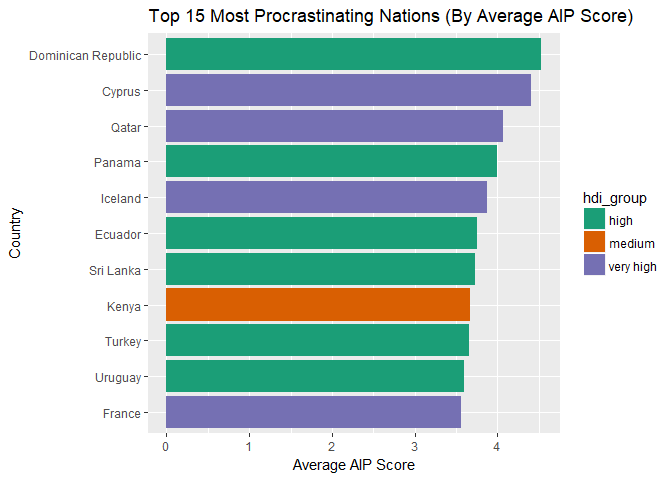
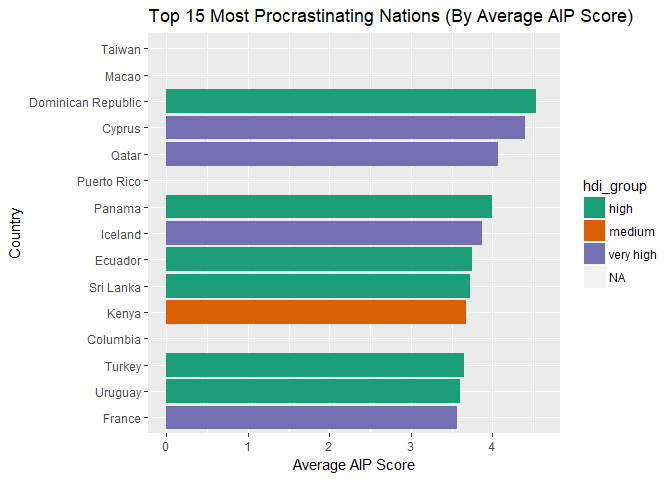
Added 6c code to q5, added new data files to Codebook

diff --git a/write-up.html b/write-up.html
@@ -1048,7 +1048,7 @@ ggplot(top15_aip_hdi,aes(x=CntryOfRes, y=CntryMeanAIP,fill=hdi_group))+
   xlab(&quot;Country&quot;)+ylab(&quot;Average AIP Score&quot;)+
   scale_fill_brewer(palette=&quot;Dark2&quot;)+
   coord_flip()</code></pre>
[2 lines of base64/hex data omitted]
 <p>14 of the top 15 nations with the highest Adult Inventory of Procrastination scale scores have either a <em>very high</em> or <em>high</em> HDI rating. Kenya, a <em>medium</em> HDI nation, is the only exception.</p>
 </div>
 <div id="based-on-general-procrastination-scale" class="section level5">
@@ -1060,12 +1060,12 @@ ggplot(top15_aip_hdi,aes(x=CntryOfRes, y=CntryMeanAIP,fill=hdi_group))+
   xlab(&quot;Country&quot;)+ylab(&quot;Average GP Score&quot;)+
   scale_fill_brewer(palette=&quot;Accent&quot;)+
   coord_flip()</code></pre>
[2 lines of base64/hex data omitted]
 <p>14 of the top 15 nations with the highest General Procrastination scale scores have either a <em>very high</em> or <em>high</em> HDI rating. Myanmar, a <em>medium</em> HDI nation, is the only exception.</p>
 </div>
 <div id="examining-highest-scoring-nations-across-adult-inventory-of-procrastination-and-general-procrastination-scales" class="section level5">
 <h5>Examining Highest Scoring Nations Across Adult Inventory of Procrastination and General Procrastination scales</h5>
-<p>The table below displays the nations, their mean scores, and their <em>hdi_group</em>.</p>
+<p>The table below displays the nations, their mean scores, their HDI score, and their <em>hdi_group</em>.</p>
 <pre class="r"><code>knitr::kable(top_procrastinators,&quot;html&quot;,row.names=FALSE) %&gt;%
   kableExtra::kable_styling(bootstrap_options = c(&quot;striped&quot;,&quot;condensed&quot;), 
                             full_width=FALSE)</code></pre>
@@ -1080,6 +1080,9 @@ CntryMeanAIP
 </th>
 <th style="text-align:right;">
 CntryMeanGP
+</th>
+<th style="text-align:right;">
+HDI
 </th>
 <th style="text-align:left;">
 hdi_group
@@ -1097,6 +1100,9 @@ Ecuador
 <td style="text-align:right;">
 3.716667
 </td>
+<td style="text-align:right;">
+0.739
+</td>
 <td style="text-align:left;">
 high
 </td>
@@ -1110,6 +1116,9 @@ France
 </td>
 <td style="text-align:right;">
 3.692308
+</td>
+<td style="text-align:right;">
+0.897
 </td>
 <td style="text-align:left;">
 very high
@@ -1125,6 +1134,9 @@ Iceland
 <td style="text-align:right;">
 3.650000
 </td>
+<td style="text-align:right;">
+0.921
+</td>
 <td style="text-align:left;">
 very high
 </td>
@@ -1139,8 +1151,28 @@ Panama
 <td style="text-align:right;">
 3.950000
 </td>
+<td style="text-align:right;">
+0.788
+</td>
 <td style="text-align:left;">
 high
+</td>
+</tr>
+<tr>
+<td style="text-align:left;">
+Puerto Rico
+</td>
+<td style="text-align:right;">
+4.000000
+</td>
+<td style="text-align:right;">
+4.283333
+</td>
+<td style="text-align:right;">
+NA
+</td>
+<td style="text-align:left;">
+NA
 </td>
 </tr>
 <tr>
@@ -1152,6 +1184,9 @@ Qatar
 </td>
 <td style="text-align:right;">
 4.200000
+</td>
+<td style="text-align:right;">
+0.856
 </td>
 <td style="text-align:left;">
 very high
@@ -1167,8 +1202,28 @@ Sri Lanka
 <td style="text-align:right;">
 3.850000
 </td>
+<td style="text-align:right;">
+0.766
+</td>
 <td style="text-align:left;">
 high
+</td>
+</tr>
+<tr>
+<td style="text-align:left;">
+Taiwan
+</td>
+<td style="text-align:right;">
+4.600000
+</td>
+<td style="text-align:right;">
+4.800000
+</td>
+<td style="text-align:right;">
+NA
+</td>
+<td style="text-align:left;">
+NA
 </td>
 </tr>
 <tr>
@@ -1180,6 +1235,9 @@ Turkey
 </td>
 <td style="text-align:right;">
 3.755556
+</td>
+<td style="text-align:right;">
+0.767
 </td>
 <td style="text-align:left;">
 high
@@ -1194,6 +1252,9 @@ Uruguay
 </td>
 <td style="text-align:right;">
 3.666667
+</td>
+<td style="text-align:right;">
+0.795
 </td>
 <td style="text-align:left;">
 high

diff --git a/data/Codebook.html b/data/Codebook.html
@@ -37,7 +37,7 @@ if (window.hljs) {
   hljs.configure({languages: []});
   hljs.initHighlightingOnLoad();
   if (document.readyState && document.readyState === "complete") {
-    window.setTimeout(function() { hljs.initHighlightingOnLoad(); }, 0);
+    window.setTimeout(function() { hljs.initHighlighting(); }, 0);
   }
 }
 </script>
@@ -238,6 +238,8 @@ div.tocify {
 <li>participants_by_country.csv - a data frame containing the counts of participants per country</li>
 <li>Procrastination.csv - the raw procrastination data obtained from Qualtrics</li>
 <li>TidyProcrastination.csv - a tidied data frame of the procrastination data</li>
+<li>top15_aip_hdi.csv - a data frame containing HDI data and mean Adult Inventory of Procrastination scores for the 15 highest scoring nations</li>
+<li>top15_gp_hdi.csv - a data frame containing HDI data and mean General Procrastination scale scores for the 15 highest scoring nations</li>
 </ul>
 </div>
 <div id="scripts" class="section level4">
@@ -793,6 +795,38 @@ Extremely dissatisfied
 <ul>
 <li>SelfLabeled (numeric): A binary variable for whether or not the participant considers themselves to be a procrastinator</li>
 <li>OthersLabel (numeric): A binary variable for whether or not the participants thinks others consider themselves to be a procrastinator</li>
+</ul>
+</div>
+</div>
+<div id="top15_aip_hdi.csv" class="section level2">
+<h2><strong>top15_aip_hdi.csv</strong></h2>
+<ul>
+<li>Type: Comma-separated value file</li>
+<li>Dimensions: 15 observations X 4 variables</li>
+</ul>
+<div id="variable-information-3" class="section level3">
+<h3>Variable information</h3>
+<ul>
+<li>CntryOfRes (character): The country name. This variable was named to match <em>CntryOfRes</em> in the TidyProcrastination.csv file for merging</li>
+<li>CntryMeanAIP (numeric): The mean Adult Inventory of Procrastination score for all participants in the given country</li>
+<li>HDI (numeric): HDI (numeric): The Human Development Index score (during the creation of this report the values are estimated in 2016 for the year 2015)</li>
+<li>hdi_group (character) : This variable uses standardized ranges to categorize a country’s HDI in to groups of low, middle, high, or very-high. See the <code>data/hdi-wiki-scrape.R</code> file for the range of HDI values each group represents.</li>
+</ul>
+</div>
+</div>
+<div id="top15_gp_hdi.csv" class="section level2">
+<h2><strong>top15_gp_hdi.csv</strong></h2>
+<ul>
+<li>Type: Comma-separated value file</li>
+<li>Dimensions: 16 observations X 4 variables (two countris had a tied mean GP score)</li>
+</ul>
+<div id="variable-information-4" class="section level3">
+<h3>Variable information</h3>
+<ul>
+<li>CntryOfRes (character): The country name. This variable was named to match <em>CntryOfRes</em> in the TidyProcrastination.csv file for merging</li>
+<li>CntryMeanGP (numeric): The mean General Procrastination scale score for all participants in the given country</li>
+<li>HDI (numeric): HDI (numeric): The Human Development Index score (during the creation of this report the values are estimated in 2016 for the year 2015)</li>
+<li>hdi_group (character) : This variable uses standardized ranges to categorize a country’s HDI in to groups of low, middle, high, or very-high. See the <code>data/hdi-wiki-scrape.R</code> file for the range of HDI values each group represents.</li>
 </ul>
 </div>
 </div>

diff --git a/write-up.md b/write-up.md
@@ -535,7 +535,7 @@ ggplot(top15_gp_hdi,aes(x=CntryOfRes, y=CntryMeanGP,fill=hdi_group))+
 
 ##### Examining Highest Scoring Nations Across Adult Inventory of Procrastination and General Procrastination scales
 
-The table below displays the nations, their mean scores, and their *hdi_group*.
+The table below displays the nations, their mean scores, their HDI score, and their *hdi_group*.
 
 ```r
 knitr::kable(top_procrastinators,"html",row.names=FALSE) %>%
@@ -548,6 +548,7 @@ knitr::kable(top_procrastinators,"html",row.names=FALSE) %>%
 <th style="text-align:left;"> CntryOfRes </th>
    <th style="text-align:right;"> CntryMeanAIP </th>
    <th style="text-align:right;"> CntryMeanGP </th>
+   <th style="text-align:right;"> HDI </th>
    <th style="text-align:left;"> hdi_group </th>
   </tr></thead>
 <tbody>
@@ -555,48 +556,70 @@ knitr::kable(top_procrastinators,"html",row.names=FALSE) %>%
 <td style="text-align:left;"> Ecuador </td>
    <td style="text-align:right;"> 3.753333 </td>
    <td style="text-align:right;"> 3.716667 </td>
+   <td style="text-align:right;"> 0.739 </td>
    <td style="text-align:left;"> high </td>
   </tr>
 <tr>
 <td style="text-align:left;"> France </td>
    <td style="text-align:right;"> 3.563846 </td>
    <td style="text-align:right;"> 3.692308 </td>
+   <td style="text-align:right;"> 0.897 </td>
    <td style="text-align:left;"> very high </td>
   </tr>
 <tr>
 <td style="text-align:left;"> Iceland </td>
    <td style="text-align:right;"> 3.870000 </td>
    <td style="text-align:right;"> 3.650000 </td>
+   <td style="text-align:right;"> 0.921 </td>
    <td style="text-align:left;"> very high </td>
   </tr>
 <tr>
 <td style="text-align:left;"> Panama </td>
    <td style="text-align:right;"> 4.000000 </td>
    <td style="text-align:right;"> 3.950000 </td>
+   <td style="text-align:right;"> 0.788 </td>
    <td style="text-align:left;"> high </td>
+  </tr>
+<tr>
+<td style="text-align:left;"> Puerto Rico </td>
+   <td style="text-align:right;"> 4.000000 </td>
+   <td style="text-align:right;"> 4.283333 </td>
+   <td style="text-align:right;"> NA </td>
+   <td style="text-align:left;"> NA </td>
   </tr>
 <tr>
 <td style="text-align:left;"> Qatar </td>
    <td style="text-align:right;"> 4.070000 </td>
    <td style="text-align:right;"> 4.200000 </td>
+   <td style="text-align:right;"> 0.856 </td>
    <td style="text-align:left;"> very high </td>
   </tr>
 <tr>
 <td style="text-align:left;"> Sri Lanka </td>
    <td style="text-align:right;"> 3.730000 </td>
    <td style="text-align:right;"> 3.850000 </td>
+   <td style="text-align:right;"> 0.766 </td>
    <td style="text-align:left;"> high </td>
+  </tr>
+<tr>
+<td style="text-align:left;"> Taiwan </td>
+   <td style="text-align:right;"> 4.600000 </td>
+   <td style="text-align:right;"> 4.800000 </td>
+   <td style="text-align:right;"> NA </td>
+   <td style="text-align:left;"> NA </td>
   </tr>
 <tr>
 <td style="text-align:left;"> Turkey </td>
    <td style="text-align:right;"> 3.654444 </td>
    <td style="text-align:right;"> 3.755556 </td>
+   <td style="text-align:right;"> 0.767 </td>
    <td style="text-align:left;"> high </td>
   </tr>
 <tr>
 <td style="text-align:left;"> Uruguay </td>
    <td style="text-align:right;"> 3.600000 </td>
    <td style="text-align:right;"> 3.666667 </td>
+   <td style="text-align:right;"> 0.795 </td>
    <td style="text-align:left;"> high </td>
   </tr>
 </tbody>

diff --git a/data/Codebook.md b/data/Codebook.md
@@ -25,6 +25,8 @@ This data folder contains the following:
 * participants_by_country.csv - a data frame containing the counts of participants per country
 * Procrastination.csv - the raw procrastination data obtained from Qualtrics
 * TidyProcrastination.csv - a tidied data frame of the procrastination data
+* top15_aip_hdi.csv - a data frame containing HDI data and mean Adult Inventory of Procrastination scores for the 15 highest scoring nations
+* top15_gp_hdi.csv - a data frame containing HDI data and mean General Procrastination scale scores for the 15 highest scoring nations 
 
 #### Scripts
 
@@ -487,6 +489,30 @@ SWLS1 through SWLS5 (numeric): The Satisfaction with Life Scale (Diener et al., 
 
 * SelfLabeled (numeric): A binary variable for whether or not the participant considers themselves to be a procrastinator
 * OthersLabel (numeric): A binary variable for whether or not the participants thinks others consider themselves to be a procrastinator
+
+## **top15_aip_hdi.csv**
+
+* Type: Comma-separated value file
+* Dimensions: 15 observations X 4 variables
+
+### Variable information
+
+* CntryOfRes (character): The country name. This variable was named to match *CntryOfRes* in the TidyProcrastination.csv file for merging
+* CntryMeanAIP (numeric): The mean Adult Inventory of Procrastination score for all participants in the given country
+* HDI (numeric): HDI (numeric): The Human Development Index score (during the creation of this report the values are estimated in 2016 for the year 2015)
+* hdi_group (character) : This variable uses standardized ranges to categorize a country's HDI in to groups of low, middle, high, or very-high. See the `data/hdi-wiki-scrape.R` file for the range of HDI values each group represents.
+
+## **top15_gp_hdi.csv**
+
+* Type: Comma-separated value file
+* Dimensions: 16 observations X 4 variables (two countris had a tied mean GP score)
+
+### Variable information
+
+* CntryOfRes (character): The country name. This variable was named to match *CntryOfRes* in the TidyProcrastination.csv file for merging
+* CntryMeanGP (numeric): The mean General Procrastination scale score for all participants in the given country
+* HDI (numeric): HDI (numeric): The Human Development Index score (during the creation of this report the values are estimated in 2016 for the year 2015)
+* hdi_group (character) : This variable uses standardized ranges to categorize a country's HDI in to groups of low, middle, high, or very-high. See the `data/hdi-wiki-scrape.R` file for the range of HDI values each group represents.
 
 ## Scripts
 
